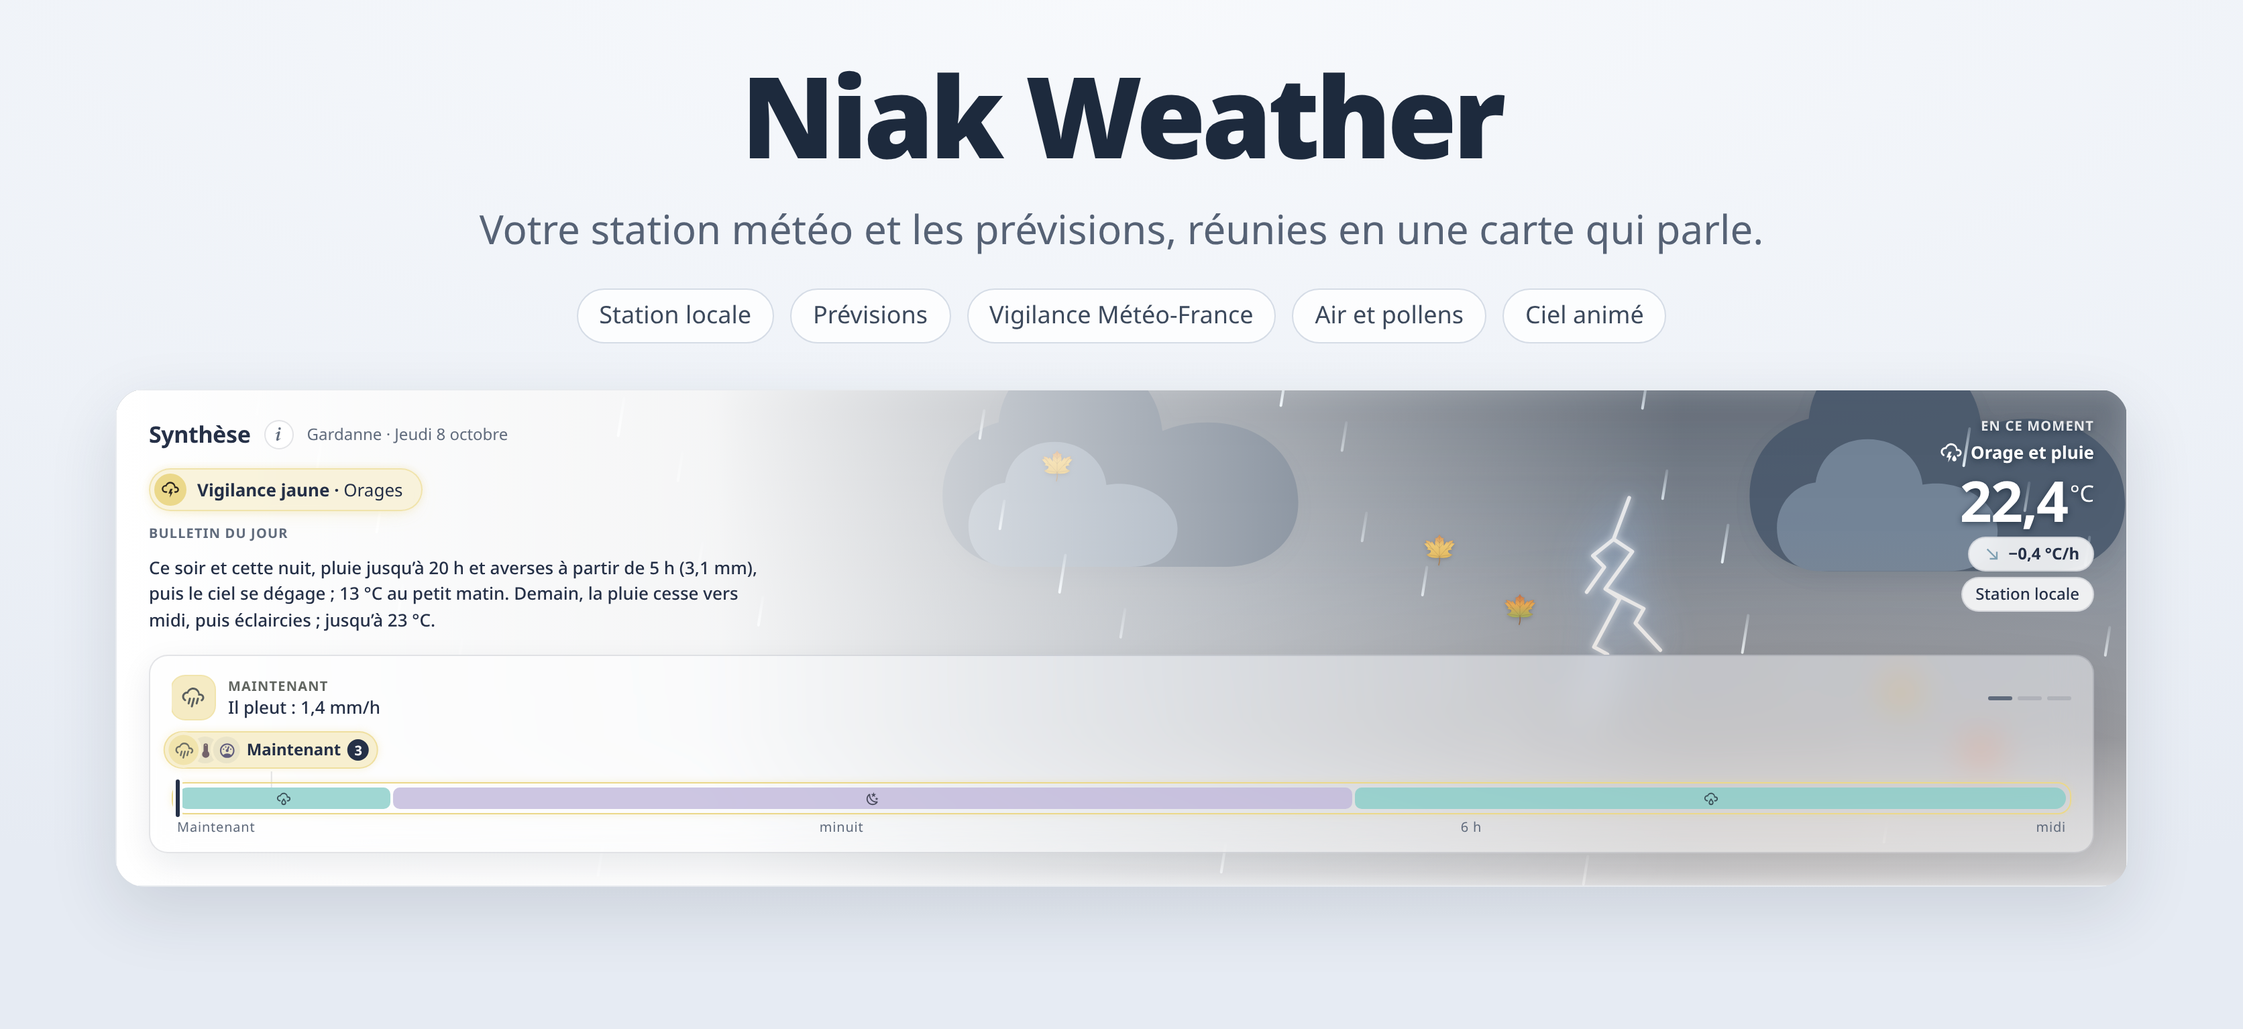
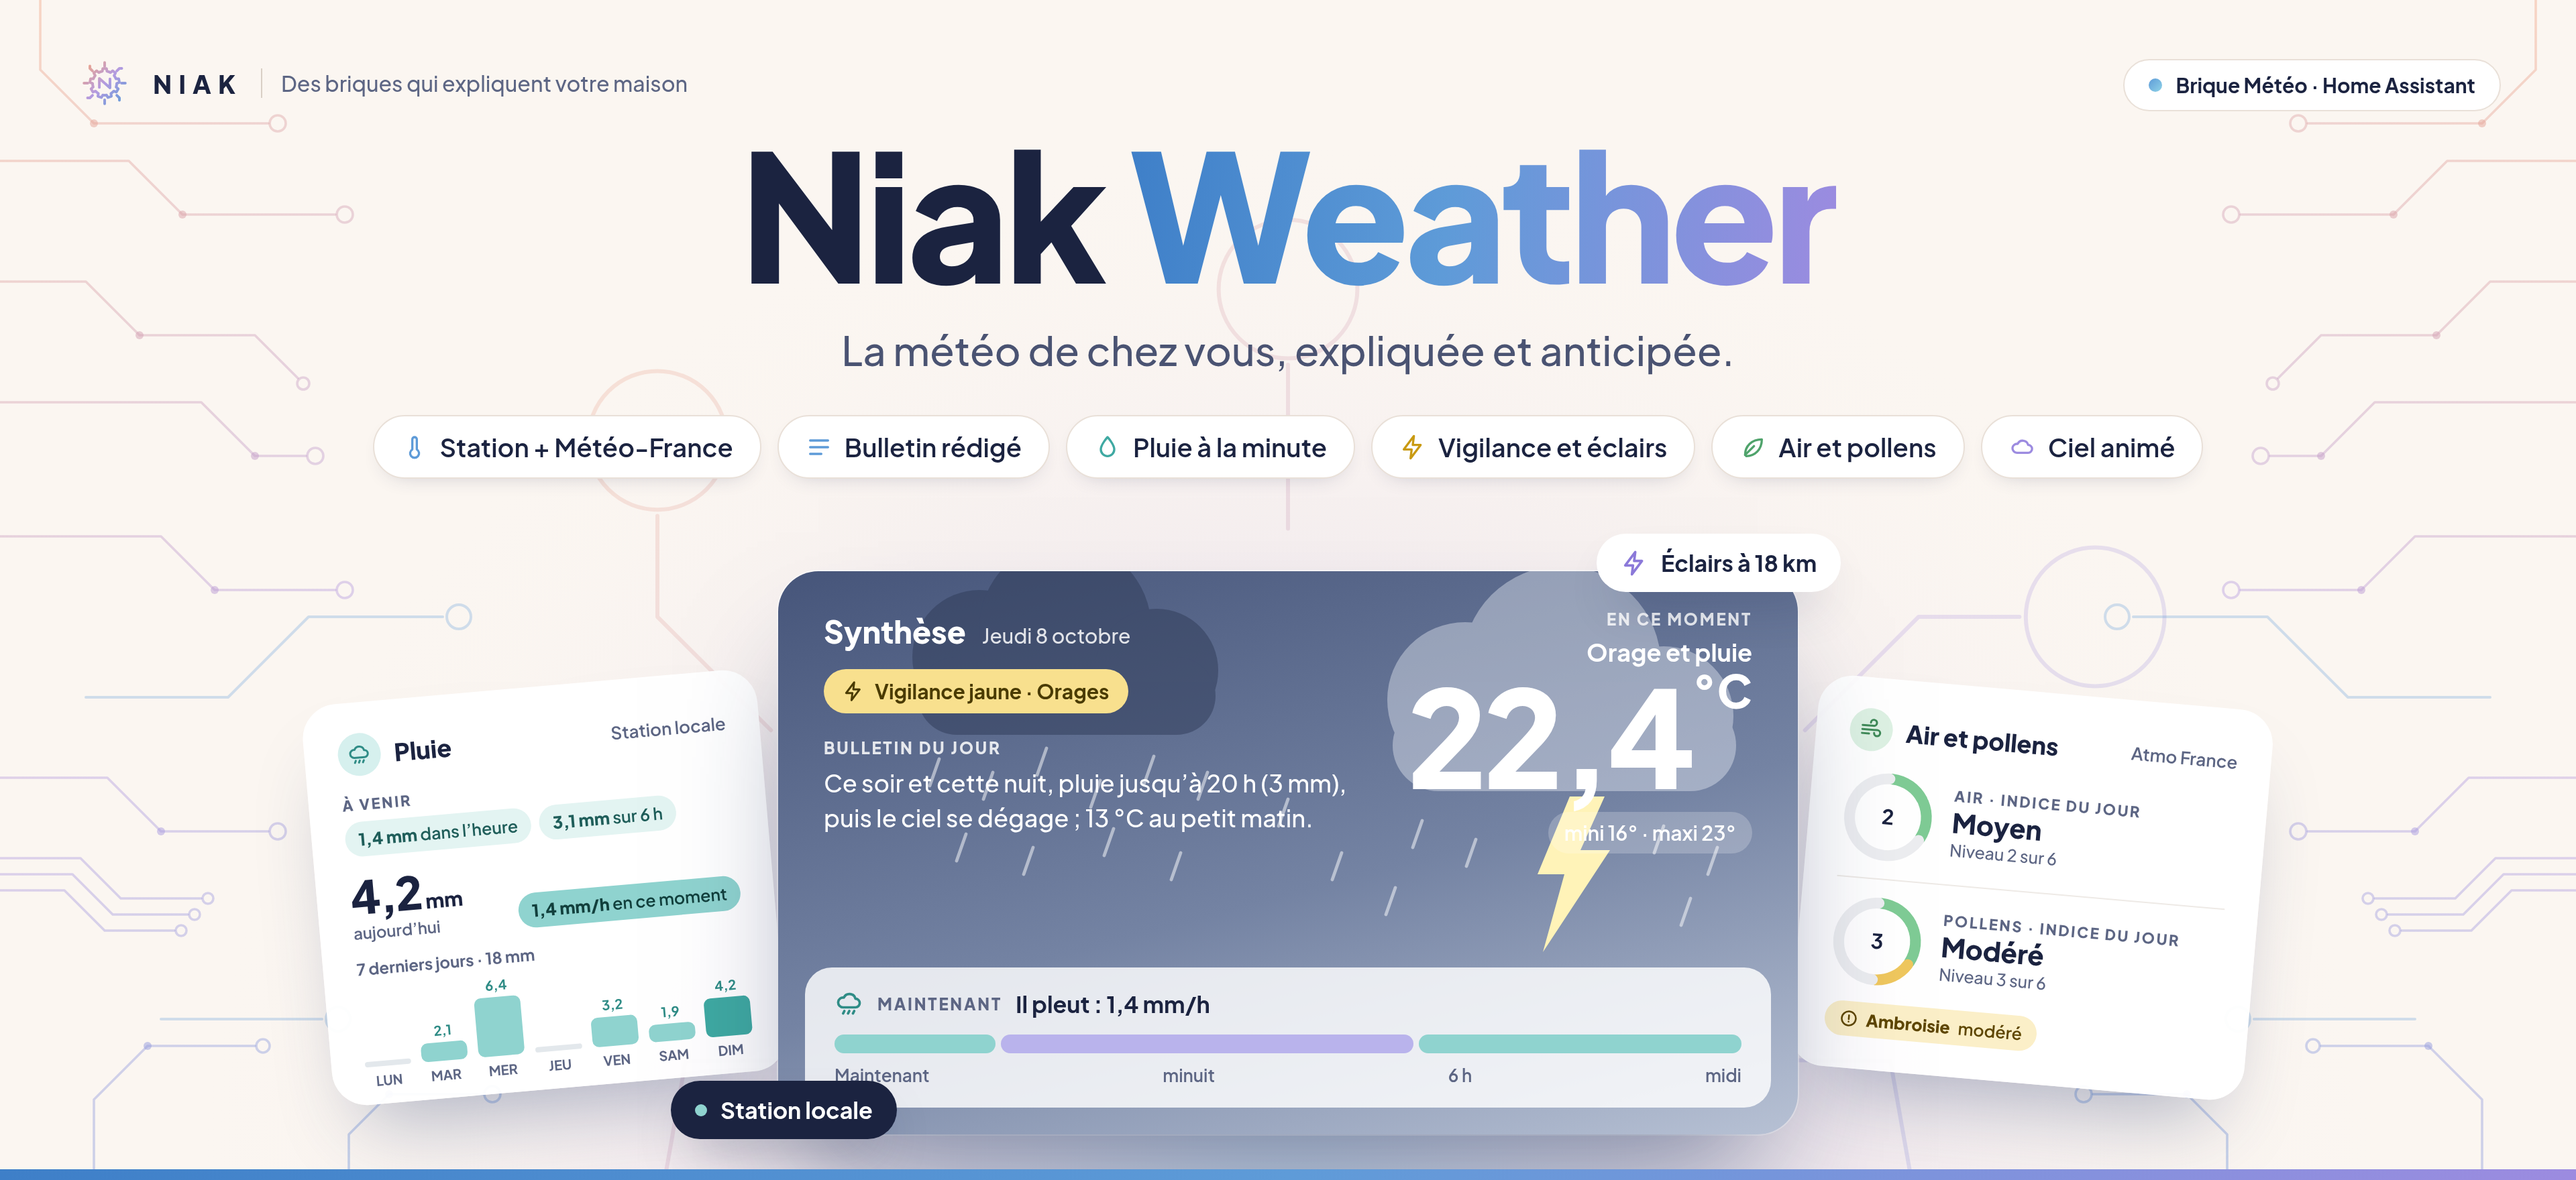
docs: nouveau bandeau, plus moderne

diff --git a/README.md b/README.md
@@ -15,7 +15,7 @@
 
 Elle donne le résultat à **sa carte**, fournie avec elle, et à vos automatisations.
 
-![Niak Weather — votre station météo et les prévisions, réunies en une carte qui parle](docs/carte/images/niak-weather-banner.png)
+![Niak Weather — la météo de chez vous, expliquée et anticipée : la synthèse sous l’orage, entre les cartes Pluie et Air et pollens](docs/carte/images/niak-weather-banner.png)
 
 ## Pourquoi
 
